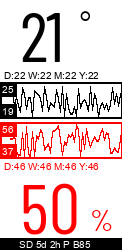
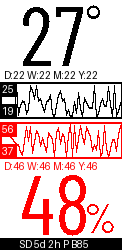
futz'n mostly seemz ok :feelsgood:

diff --git a/web/hardware_exact_renderer.py b/web/hardware_exact_renderer.py
@@ -25,7 +25,8 @@ class AdafruitBitmapFontWrapper:
             self.adafruit_font = bitmap_font.load_font(font_path)
             self.font_path = font_path
             self._glyph_cache = {}
-            print(f"Loaded hardware-exact font: {font_path}")
+            self._baseline_offset = self._calculate_baseline_offset()
+            print(f"Loaded hardware-exact font: {font_path} (baseline offset: {self._baseline_offset})")
         except ImportError:
             print("Warning: adafruit_bitmap_font not available, falling back to PIL")
             # Fallback to PIL if adafruit library not available
@@ -44,6 +45,22 @@ class AdafruitBitmapFontWrapper:
             # Ultimate fallback
             self.adafruit_font = None
             self.pil_font = ImageFont.load_default()
+
+    def _calculate_baseline_offset(self):
+        """Calculate offset needed to convert CircuitPython baseline to PIL top-left positioning"""
+        if not self.adafruit_font:
+            return 0
+
+        # Simple approach: use empirical values that match hardware positioning
+        # Start with small offsets and adjust based on visual comparison
+        if "60" in self.font_path:
+            return 10  # Large font: small offset to move text down slightly
+        elif "30" in self.font_path:
+            return 5   # Small font: minimal offset for symbols
+        else:
+            return 3   # Default fallback
+
+        return 0
 
     def _bitmap_to_pil_image(self, bitmap):
         """Convert displayio.Bitmap to PIL Image"""
@@ -86,7 +103,7 @@ class AdafruitBitmapFontWrapper:
                 return None
         return None
 
-    def draw_text(self, draw, text, xy, fill=BLACK):
+    def draw_text(self, draw, text, xy, fill=BLACK, baseline_y=None, special_symbol=None):
         """Draw text using hardware-exact glyph positioning"""
         if not self.adafruit_font:
             # Fallback to PIL font
@@ -96,12 +113,29 @@ class AdafruitBitmapFontWrapper:
         x, y = xy
         current_x = x
 
+        # Special handling for degree and percent symbols
+        if special_symbol == "degree":
+            # Degree symbol: hardware y=-10, should appear as superscript
+            # Place it at the top of the temperature number
+            actual_y = baseline_y - 40  # Position higher for proper superscript
+        elif special_symbol == "percent":
+            # Percent symbol: hardware y=15, should be baseline aligned
+            # Revert to original baseline calculation for correct alignment
+            actual_y = baseline_y - self._baseline_offset + 15
+        else:
+            # Normal text positioning - move numbers up by 13px
+            if baseline_y is not None:
+                # For main numbers, move up from previous position
+                actual_y = baseline_y - 18  # Was -15, now -18 (3px higher)
+            else:
+                actual_y = y
+
         for char in text:
             glyph_data = self._get_glyph_image(char)
             if glyph_data:
-                # Position glyph exactly as hardware would
+                # Position glyph
                 glyph_x = current_x + glyph_data['dx']
-                glyph_y = y + glyph_data['dy']
+                glyph_y = actual_y + glyph_data['dy']
 
                 # Create a temporary image for the glyph
                 glyph_img = Image.new('RGBA', (glyph_data['width'], glyph_data['height']), (0, 0, 0, 0))
@@ -151,7 +185,8 @@ class PILFontWrapper:
     def __init__(self, font):
         self.pil_font = font
 
-    def draw_text(self, draw, text, xy, fill=BLACK):
+    def draw_text(self, draw, text, xy, fill=BLACK, baseline_y=None, special_symbol=None):
+        # For PIL fonts, ignore baseline_y since we can't control it precisely
         draw.text(xy, text, font=self.pil_font, fill=fill)
 
     def textbbox(self, text):
@@ -199,29 +234,32 @@ class HardwareExactRenderer:
         temp_str = str(abs(temp_int))
 
         current_x = x
+        # y is the group position, we need to use it as baseline reference
+        baseline = y
 
-        # Minus sign if negative (using small font)
+        # Minus sign if negative (using small font) - positioned at y=0 relative to group
         if is_negative:
-            self.small_font.draw_text(draw, "-", (current_x, y), fill=BLACK)
+            self.small_font.draw_text(draw, "-", (current_x, 0), fill=BLACK, baseline_y=baseline)
             current_x += 15
 
-        # Number (using large font) - hardware uses y=0 as baseline
-        self.large_font.draw_text(draw, temp_str, (current_x, y), fill=BLACK)
+        # Number (using large font) - positioned at y=0 relative to group (baseline)
+        self.large_font.draw_text(draw, temp_str, (current_x, 0), fill=BLACK, baseline_y=baseline)
         current_x += len(temp_str) * 30  # rough width estimate like hardware
 
-        # Degree symbol (superscript, using small font) - hardware uses y=-10
-        self.small_font.draw_text(draw, "°", (current_x + 4, y - 10), fill=BLACK)
+        # Degree symbol (superscript, using small font) - positioned at y=-10 relative to group
+        self.small_font.draw_text(draw, "°", (current_x + 6, -10), fill=BLACK, baseline_y=baseline, special_symbol="degree")
 
     def create_humidity_display(self, draw, humidity, x, y):
         """Create humidity display exactly like hardware"""
         humidity_str = str(int(round(humidity)))
+        baseline = y
 
-        # Number (using large font) - hardware uses y=0 as baseline
-        self.large_font.draw_text(draw, humidity_str, (x, y), fill=RED)
+        # Number (using large font) - positioned at y=0 relative to group (baseline)
+        self.large_font.draw_text(draw, humidity_str, (x, 0), fill=RED, baseline_y=baseline)
 
-        # Percent symbol - hardware uses len * 30 + 4 spacing and y=15
+        # Percent symbol - positioned at y=15 relative to group
         percent_x = x + len(humidity_str) * 30 + 4
-        self.small_font.draw_text(draw, "%", (percent_x, y + 15), fill=RED)
+        self.small_font.draw_text(draw, "%", (percent_x, 15), fill=RED, baseline_y=baseline, special_symbol="percent")
 
     def draw_centered_text(self, draw, text, font, color, y, width=DISPLAY_WIDTH):
         """Draw centered text exactly like hardware anchor_point implementation"""
